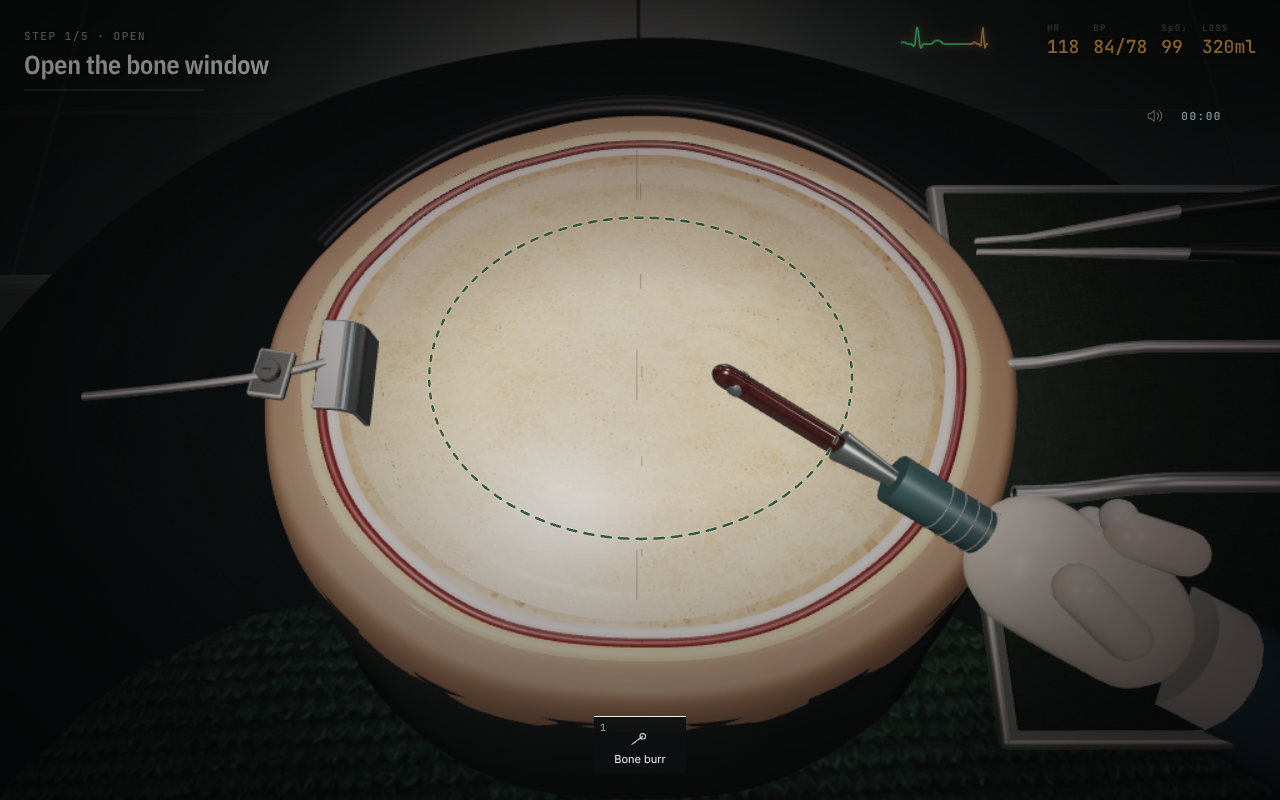
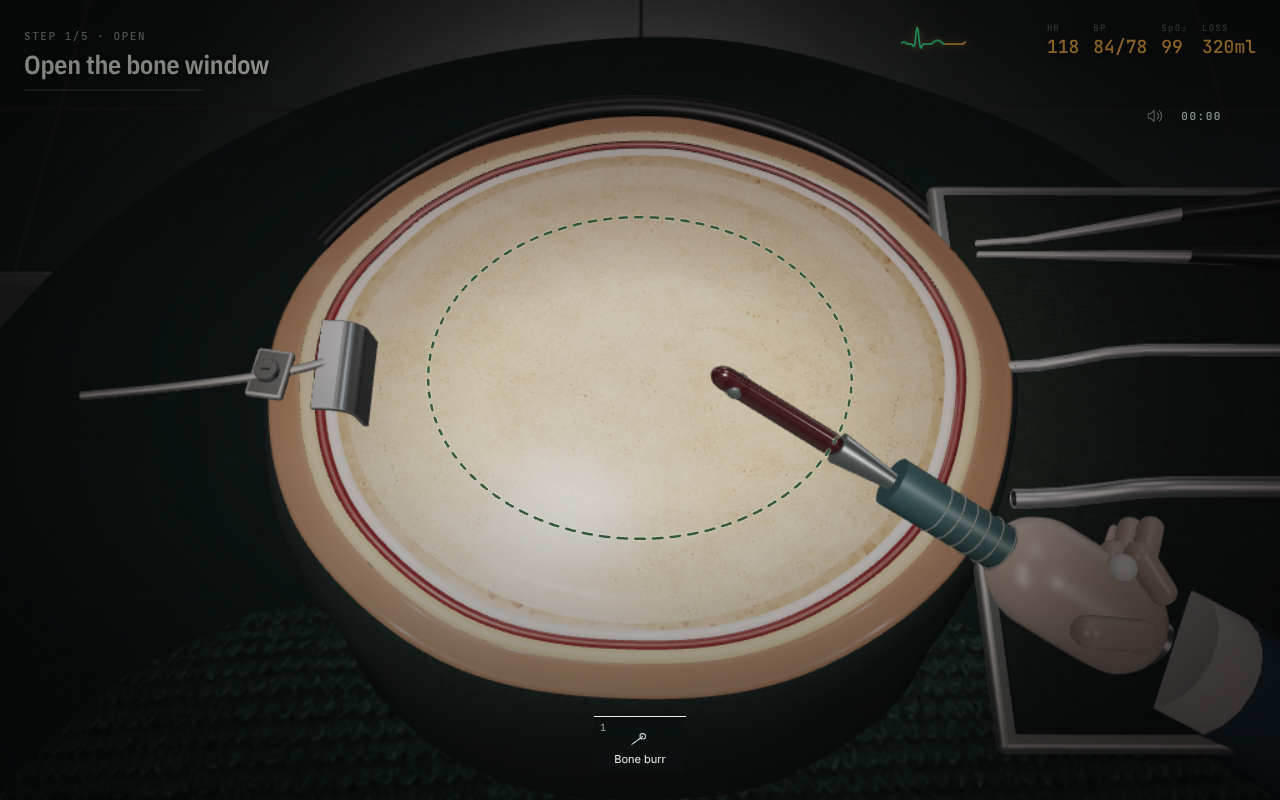
R3: stained articulated glove, pointer release on stop, QA ignores dev font 403s

diff --git a/src/game/engine.ts b/src/game/engine.ts
@@ -12,7 +12,7 @@ import { SSAOPass } from "three/addons/postprocessing/SSAOPass.js";
 import { OutputPass } from "three/addons/postprocessing/OutputPass.js";
 import { UnrealBloomPass } from "three/addons/postprocessing/UnrealBloomPass.js";
 import { BokehPass } from "three/addons/postprocessing/BokehPass.js";
-import { addGlove } from "./gloves";
+import { addGlove, latex as gloveLatex } from "./gloves";
 import { ShaderPass } from "three/addons/postprocessing/ShaderPass.js";
 import { gradeShader } from "./grade";
 import { RenderPass } from "three/addons/postprocessing/RenderPass.js";
@@ -44,6 +44,8 @@ import {
   type Contact,
 } from "./simulation";
 
+const CLEAN_GLOVE = new THREE.Color(0xe0d0ae),
+  BLOODY_GLOVE = new THREE.Color(0x6b2a24);
 const DEATH = /pressure collapsed|blood was lost|herniat|bleeding source/i;
 export interface Snapshot extends GameState {
   loaded: boolean;
@@ -1056,6 +1058,10 @@ export class Engine {
         this.dirty = true;
       }
     }) as EventListener);
+    listen(document, "pointerlockerror", (() => {
+      this.lockFailed = true;
+      this.emit();
+    }) as EventListener);
     listen(document, "pointerlockchange", (() => {
       this.locked = document.pointerLockElement === canvas;
       if (this.state.status === "running" && !document.pointerLockElement && this.canLock)
@@ -1292,6 +1298,8 @@ export class Engine {
     const delta = Math.min(frameDelta, 0.1);
     this.last = now;
     if (this.loaded) {
+      // The mouse must be free the moment the operation stops, so result buttons can be clicked.
+      if (this.state.status !== "running" && document.pointerLockElement) document.exitPointerLock();
       if (this.arrival) {
         this.stepArrival();
         this.dirty = true;
@@ -1465,6 +1473,8 @@ export class Engine {
           }
           if (this.trayView) model.position.set(0.7, -2.5, 1.6);
           else model.position.copy(this.tip).add(new THREE.Vector3(0.6 * swapOffset, -1.0 * swapOffset, 0.1 * swapOffset));
+          // The glove stains as the patient loses blood.
+          gloveLatex.color.lerpColors(CLEAN_GLOVE, BLOODY_GLOVE, Math.min(1, this.state.bloodLoss / 420));
           const bloodTip = (model.getObjectByName("shaft") ?? model).getObjectByName("bloodTip");
           if (bloodTip) {
             const amount = Math.min(1, this.state.bloodLoss / 160 + this.state.bleeding * 0.4);

diff --git a/src/game/gloves.ts b/src/game/gloves.ts
@@ -1,6 +1,6 @@
 import * as THREE from "three";
 
-const latex = new THREE.MeshPhysicalMaterial({
+export const latex = new THREE.MeshPhysicalMaterial({
   color: 0xe0d0ae,
   roughness: 0.34,
   clearcoat: 0.45,
@@ -47,23 +47,28 @@ export function addGlove(tool: THREE.Object3D, along = 0.78) {
     m.castShadow = true;
     return m;
   };
-  const palm = capsule(r, r * 1.5, latex);
-  palm.scale.set(1, 1, 0.9);
+  const palm = capsule(r * 0.82, r * 1.1, latex);
+  palm.scale.set(1, 1.05, 0.78);
   hand.add(palm);
-  // Fingers wrapped over the grip, thumb along the side.
+  // Four fingers curl over the grip in two segments each; the index sits furthest forward.
   for (let i = 0; i < 4; i++) {
-    const f = capsule(r * 0.34, r * 0.9, latex);
-    f.rotation.x = 0;
-    f.position.set(r * 0.5 - i * r * 0.04, r * 0.86, (i - 1.5) * r * 0.55);
-    f.rotation.set(0, 0, Math.PI / 2 + 0.25);
-    hand.add(f);
-    const k = new THREE.Mesh(new THREE.SphereGeometry(r * 0.26, 12, 10), knuckle);
-    k.position.set(-r * 0.28, r * 0.9, (i - 1.5) * r * 0.55);
+    const z = (i - 1.5) * r * 0.42,
+      len = r * (1.0 - Math.abs(i - 1) * 0.06 + (i === 3 ? -0.18 : 0));
+    const proximal = capsule(r * 0.2, len * 0.8, latex);
+    proximal.position.set(r * 0.55, r * 0.58, z);
+    proximal.rotation.set(0, 0, Math.PI / 2 - 0.55);
+    hand.add(proximal);
+    const distal = capsule(r * 0.17, len * 0.6, latex);
+    distal.position.set(r * 0.38, r * 1.0, z);
+    distal.rotation.set(0, 0, Math.PI / 2 - 1.5);
+    hand.add(distal);
+    const k = new THREE.Mesh(new THREE.SphereGeometry(r * 0.2, 12, 10), knuckle);
+    k.position.set(r * 0.12, r * 0.42, z);
     hand.add(k);
   }
-  const thumb = capsule(r * 0.32, r * 1.1, latex);
-  thumb.position.set(-r * 0.2, -r * 0.55, r * 0.95);
-  thumb.rotation.set(0.5, 0.2, Math.PI / 2 - 0.2);
+  const thumb = capsule(r * 0.22, r * 0.9, latex);
+  thumb.position.set(r * 0.3, -r * 0.5, r * 0.62);
+  thumb.rotation.set(0.5, 0.3, Math.PI / 2 + 0.35);
   hand.add(thumb);
   // Wrist cuff and gowned forearm to the edge of the frame.
   const wrist = new THREE.Mesh(new THREE.CylinderGeometry(r * 0.95, r * 1.0, r * 0.7, 20), cuff);
